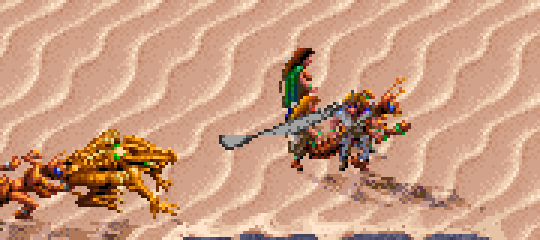
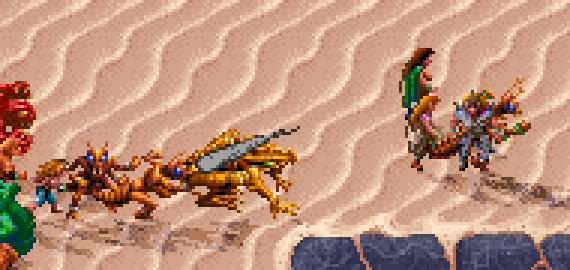
Save lines name the saving throw, then its result
"Thrikreen saves vs Fogbolt ... -> failed" read as if it had saved. The
line is now "Thrikreen's saving throw vs Fogbolt from Daaki (spell): d20
= 3, needs 17 (20% to save) -> failed", and the cannot/automatic cases
end in "-> failed" and "-> saved" too. The viewer colours the new form.
The turn-window screenshot is retaken with it, and Fogbolt's picture is
the bolt striking its target.

Claude-Session: https://claude.ai/code/session_01BNiWkhyZSJPYsN3zRrweVp

diff --git a/darksun-companion/tests/test_dicelog.py b/darksun-companion/tests/test_dicelog.py
@@ -329,7 +329,7 @@ class AttackTests(unittest.TestCase):
         """At the least, a spell's damage taken and healing, without its dice or saves."""
         log = make_game()
         log._turn_log += ["Fireball damage: 9d6 = [3 + 2 + 3 + 4 + 5 + 4 + 1 + 2 + 2] = 26",
-                          "Red Slaad saves vs Fireball from Daaki (petrification/polymorph): d20 = 6 -> saved",
+                          "Red Slaad's saving throw vs Fireball from Daaki (petrification/polymorph): d20 = 6 -> saved",
                           "  Red Slaad takes 13 from Fireball, now 47/60 HP",
                           "  Dag regains 7 HP from Cure Light Wounds, now 30/40 HP"]
         self.assertEqual(log.turn_summary(0, dicelog.POPUP_MINIMAL),
@@ -411,11 +411,11 @@ class AttackTests(unittest.TestCase):
         log = make_game()
         log._note_turn(["Round 2: Dag 25, Mountain Stalker 18", "    Dag 25 = 20 + 5 (0-9 roll)",
                         "Fireball damage: 5d6 = [2 + 5 + 3 + 6 + 1] = 17",
-                        "Dag saves vs Fireball from Defiler (petrification/polymorph): d20 = 7, doubled against fire = 14, needs 12 (60% to save) -> saved: half damage, 8",
+                        "Dag's saving throw vs Fireball from Defiler (petrification/polymorph): d20 = 7, doubled against fire = 14, needs 12 (60% to save) -> saved: half damage, 8",
                         "  Dag takes 8 from Fireball, now 16/24 HP", "Dice: 1d6 = [4] = 4"])
         text = log.turn_summary(0).split("\n")
         self.assertEqual(text[0], "Fireball damage: 5d6 = [2 + 5 + 3 + 6 + 1] = 17")  # not the round's order
-        self.assertTrue(text[1].startswith("Dag saves vs Fireball"))
+        self.assertTrue(text[1].startswith("Dag's saving throw vs Fireball"))
         self.assertIn("needs 12 -> saved", text[1])  # the chance to save left out too
         self.assertEqual(text[2], "Dag takes 8 from Fireball, now 16/24 HP")
         self.assertEqual(len(text), 3)  # nor unlabelled dice
@@ -492,7 +492,7 @@ class SaveTests(unittest.TestCase):
                          ["Hold Person damage: 2d6 = [6 + 4] = 10"])
         self.assertEqual(log.describe(self.save_roll(log, 13), now=1.1), [])
         self.assertEqual(log.describe(self.probe(15)),
-                         ["Mountain Stalker saves vs Hold Person from Dag (spell): d20 = 13 +2 other = 15, "
+                         ["Mountain Stalker's saving throw vs Hold Person from Dag (spell): d20 = 13 +2 other = 15, "
                           "needs 14 (45% to save) -> saved"])
 
     def test_save_shows_what_it_leaves(self):
@@ -505,7 +505,7 @@ class SaveTests(unittest.TestCase):
             log.describe(d, now=1.0)
         log.describe(self.save_roll(log, 9, spell=FIREBALL), now=1.1)
         self.assertEqual(log.describe(self.probe(18, needed=14, spell=FIREBALL)),
-                         ["Mountain Stalker saves vs Fireball from Dag (spell): d20 = 9, doubled against fire = 18, "
+                         ["Mountain Stalker's saving throw vs Fireball from Dag (spell): d20 = 9, doubled against fire = 18, "
                           "needs 14 (70% to save) -> saved: half damage, 7 of 15"])
 
     def test_save_not_doubled_with_the_rule(self):
@@ -520,7 +520,7 @@ class SaveTests(unittest.TestCase):
                                parent_code=dicelog.SPELL_DAMAGE_RETURN), now=1.0)
         log.describe(self.save_roll(log, 9, spell=FIREBALL), now=1.1)
         self.assertEqual(log.describe(self.probe(11, needed=14, spell=FIREBALL)),
-                         ["Mountain Stalker saves vs Fireball from Dag (spell): d20 = 9 +2 DEX 16 dodging = 11, "
+                         ["Mountain Stalker's saving throw vs Fireball from Dag (spell): d20 = 9 +2 DEX 16 dodging = 11, "
                           "needs 14 (45% to save) -> failed: full damage, 15"])
         log.set_rules(0)  # and the mark comes off again
         rules = (LOAD_SEG + game.SPELLS_SEG) * 16 + game.SPELLS_OFF + FIREBALL * game.SPELL_SIZE
@@ -749,7 +749,7 @@ class SaveTests(unittest.TestCase):
         log = make_game()
         log.describe(self.save_roll(log, 7, spell=FIREBALL))
         self.assertEqual(log.describe(self.probe(14, needed=15, spell=FIREBALL)),
-                         ["Mountain Stalker saves vs Fireball from Dag (spell): d20 = 7, doubled against fire "
+                         ["Mountain Stalker's saving throw vs Fireball from Dag (spell): d20 = 7, doubled against fire "
                           "= 14, needs 15 (65% to save) -> failed"])
 
     def test_modifiers_name_the_effects_that_count(self):
@@ -767,7 +767,7 @@ class SaveTests(unittest.TestCase):
         set_effects(log, [(0x29, 0, 40), (0x29, 0, 7)])  # Prot Fire, Blessed
         log.describe(self.save_roll(log, 7, spell=FIREBALL))
         self.assertEqual(log.describe(self.probe(18, needed=15, spell=FIREBALL)),
-                         ["Mountain Stalker saves vs Fireball from Dag (spell): d20 = 7, doubled against fire "
+                         ["Mountain Stalker's saving throw vs Fireball from Dag (spell): d20 = 7, doubled against fire "
                           "= 14 +1 Blessed +3 Prot Fire = 18, needs 15 (75% to save) -> saved"])
         # paralysis/poison/death: a dwarf's CON counts twice over
         m = log.guest.mem
@@ -780,7 +780,7 @@ class SaveTests(unittest.TestCase):
     def test_natural_20_needs_no_probe(self):
         log = make_game()
         self.assertEqual(log.describe(self.save_roll(log, 20)),
-                         ["Mountain Stalker saves vs Hold Person from Dag (spell): d20 = 20 (natural 20) -> saved"])
+                         ["Mountain Stalker's saving throw vs Hold Person from Dag (spell): d20 = 20 (natural 20) -> saved"])
 
     def test_magic_resistance(self):
         log = make_game()

diff --git a/darksun-companion/dscompanion/dicelog.py b/darksun-companion/dscompanion/dicelog.py
@@ -2449,15 +2449,15 @@ class DiceLog:
         kind = SAVE_NAMES.get(index, "?")
         # a spell left on the ground (Grease, a cloud) makes its victims save with themselves as the caster
         source = f" from {g.combatant_name(caster)}" if caster != target else ""
-        who = f"{g.combatant_name(target)} saves vs {g.spell_name(spell)}{source} ({kind})"
+        who = f"{g.combatant_name(target)}'s saving throw vs {g.spell_name(spell)}{source} ({kind})"
         if total is None:
             return f"{who}: d20 = {natural} (natural {natural}) -> {self._save_result(spell, natural == 20)}"
         if total >= 0x80:  # the game adds -100 / +100 for "can't save" / "always saves"
             total -= 0x100
         if total < -50:
-            return f"{who}: cannot save"
+            return f"{who}: none allowed (cannot save) -> failed"
         if total > 100:
-            return f"{who}: saves automatically"
+            return f"{who}: not needed (saves automatically) -> saved"
         rules = g.spell_rules(spell)
         steps, rolled = "d20", None
         if natural is not None:

diff --git a/darksun-companion/dscompanion/viewer.py b/darksun-companion/dscompanion/viewer.py
@@ -1069,7 +1069,7 @@ class Viewer:
         for line in lines:
             tag = ("round" if line.startswith(("Round ", "Initiative: ")) else
                    "turn" if line.endswith("'s turn") else
-                   "save" if " saves vs " in line or " magic resistance " in line else
+                   "save" if "'s saving throw vs " in line or " magic resistance " in line else
                    "hit" if "-> HIT" in line else
                    "miss" if "-> miss" in line else
                    "detail" if line.startswith("    ") else

diff --git a/darksun-companion/README.md b/darksun-companion/README.md
@@ -471,7 +471,7 @@ with the log's background (WCAG 2.0 AA, as AODA asks).
 | `    Dispel Magic on Slig's Blessed: d100 = 60, needs 85 or less (50 + 5 x 7 - 5 x 0 (its caster's level)) -> dispelled` | Dispel Magic tries each effect on its target separately: 50 + 5 for each of the dispeller's levels, less 5 for each of the level the effect was cast at. It can't touch some (Biofeedback, Diseased, Feeblemind, Poisoned, Graft Weapon, No spell use, Stuck, Mind Bar and a few more). |
 | `    Abjure on Y: d20 = 14, needs 12 or more (11 - caster level 5 + its level 6) -> sent away` | Abjure sends a summoned creature away (1000 damage) on a d20 at or over 11 - the caster's level + the creature's. |
 | `    Summoning: 1d3 = 2 picks which of its 3 creatures comes` | Which creature a summoning spell brings. |
-| `Y saves vs Fireball from X (petrification/polymorph): d20 = 6, doubled against fire = 12 +1 Blessed = 13, needs 11 (80% to save) -> saved: half damage, 19 of 38` | A saving throw: which of the target's five saves it uses, the d20, each of the game's modifiers by name (see [The game's saving throws](#the-games-saving-throws); anything the log can't account for shows as `other`), and the number it had to reach. With the [rule changes](#rule-changes) off, the game uses petrification/polymorph for almost every spell and doubles the d20 against fire, cold and electricity spells, as here (see [The game's saving throws](#the-games-saving-throws)); with them on (the default), the line names the spell save and DEX's adjustment instead (`+5 DEX 21 dodging`). A natural 1 always fails and a natural 20 always saves. The chance of saving is worked out for you (`needs 14 (70% to save)`); with the game's doubled d20, Fireball's victims usually save. For a damaging spell the result says what the save left, from that target's damage roll just before it: `saved: half damage, 19 of 38`, `failed: full damage, 38`, or `saved: no damage` for spells such as Chill Touch. The HP line after it shows what the creature really lost, once resistances and protections have had their say. A failed save also lets the spell's effect take hold. Spells left on the ground (Grease, clouds) make creatures save again as they stay in them; those lines have no "from". |
+| `Y's saving throw vs Fireball from X (petrification/polymorph): d20 = 6, doubled against fire = 12 +1 Blessed = 13, needs 11 (80% to save) -> saved: half damage, 19 of 38` | A saving throw: which of the target's five saves it uses, the d20, each of the game's modifiers by name (see [The game's saving throws](#the-games-saving-throws); anything the log can't account for shows as `other`), and the number it had to reach. With the [rule changes](#rule-changes) off, the game uses petrification/polymorph for almost every spell and doubles the d20 against fire, cold and electricity spells, as here (see [The game's saving throws](#the-games-saving-throws)); with them on (the default), the line names the spell save and DEX's adjustment instead (`+5 DEX 21 dodging`). A natural 1 always fails and a natural 20 always saves. The chance of saving is worked out for you (`needs 14 (70% to save)`); with the game's doubled d20, Fireball's victims usually save. For a damaging spell the result says what the save left, from that target's damage roll just before it: `saved: half damage, 19 of 38`, `failed: full damage, 38`, or `saved: no damage` for spells such as Chill Touch. The HP line after it shows what the creature really lost, once resistances and protections have had their say. A failed save also lets the spell's effect take hold. Spells left on the ground (Grease, clouds) make creatures save again as they stay in them; those lines have no "from". |
 | `X gives Blessed to Y, Z: +1 to hit, +1 on saves` / `Blessed ends on Y` | A spell or psionic effect starting or ending, with what it does in the game's code where that is known: to-hit, AC and saving throws, movement and attacks, whether the creature can attack or cast, who controls it (see [Spells and effects](#spells-and-effects)). `Stuck on Y` (no "gives") is an effect a creature has from a spell on the ground or cast on itself. |
 
 **Checks, thief skills and searches**
@@ -1163,7 +1163,7 @@ next ones:
 
 ![The game's window at the end of a turn, in detail](docs/turn-detail.png)
 
-![The game's window after Daaki's Fogbolts: the dice for how long it lasts, and the Thri-kreen's save](docs/turn-spell.png)
+![The game's window after Daaki's Fogbolts: the dice for how long it lasts, and the Wild Mul's saving throw](docs/turn-spell.png)
 
 **In short** (or `--short-popups`) gives one line per target instead (and each
 spell's first line):
@@ -2189,7 +2189,7 @@ less the item's plus, and 1 less again for a magical power:
 The dice log shows every check, whichever rule is on:
 
 ```
-Defiler saves vs Acid from Rampager (paralysis/poison/death): d20 = 20 (natural 20) -> saved
+Defiler's saving throw vs Acid from Rampager (paralysis/poison/death): d20 = 20 (natural 20) -> saved
   Rampager's acid on Defiler's Metal Chain Leg Armor: d20 = 16, needs 13 (AD&D's, 13 for metal; the game's: destroyed without a roll) -> safe
   Rampager's acid on Defiler's Leather Chest Armor: d20 = 12, needs 10 (AD&D's, 10 for leather; the game's: destroyed without a roll) -> safe
 ```
@@ -2280,7 +2280,7 @@ spells are gone from the lists and the game is as it was.
 
 ![The Effects screen with Cat's Grace and Erdlu Claw on Daaki, the claw's name below](docs/new-spells-effects.png)
 
-![Fogbolt's dark grey bolt on its way from the caster to a monster](docs/fogbolt.png)
+![Fogbolt's dark grey bolt striking a Daggoran, cast by Daaki (right)](docs/fogbolt.png)
 
 How it works: [DEVELOPMENT.md](DEVELOPMENT.md#new-wizard-spells).
 

diff --git a/CHANGELOG.md b/CHANGELOG.md
@@ -60,6 +60,12 @@ have the detail.
   and the Characters tab's move shows only a kit's extra (the Stalker's).
 
 **Fixed**
+- **A save line read as if the save succeeded** ("Thrikreen saves vs Fogbolt
+  ... -> failed"). It is now the creature's saving throw, then the result:
+  `Wild Mul's saving throw vs Fogbolt from Daaki (spell): d20 = 16, needs 14
+  (35% to save) -> saved`; "cannot save" and "saves automatically" read
+  `none allowed (cannot save) -> failed` and `not needed (saves
+  automatically) -> saved`.
 - **The dice log showed XP for every kill,** the creature's value from its
   character sheet, even where the party gains none (the opening fight in the
   arena, whoever dies). A kill now reads "Rampager is killed"; the XP shows
